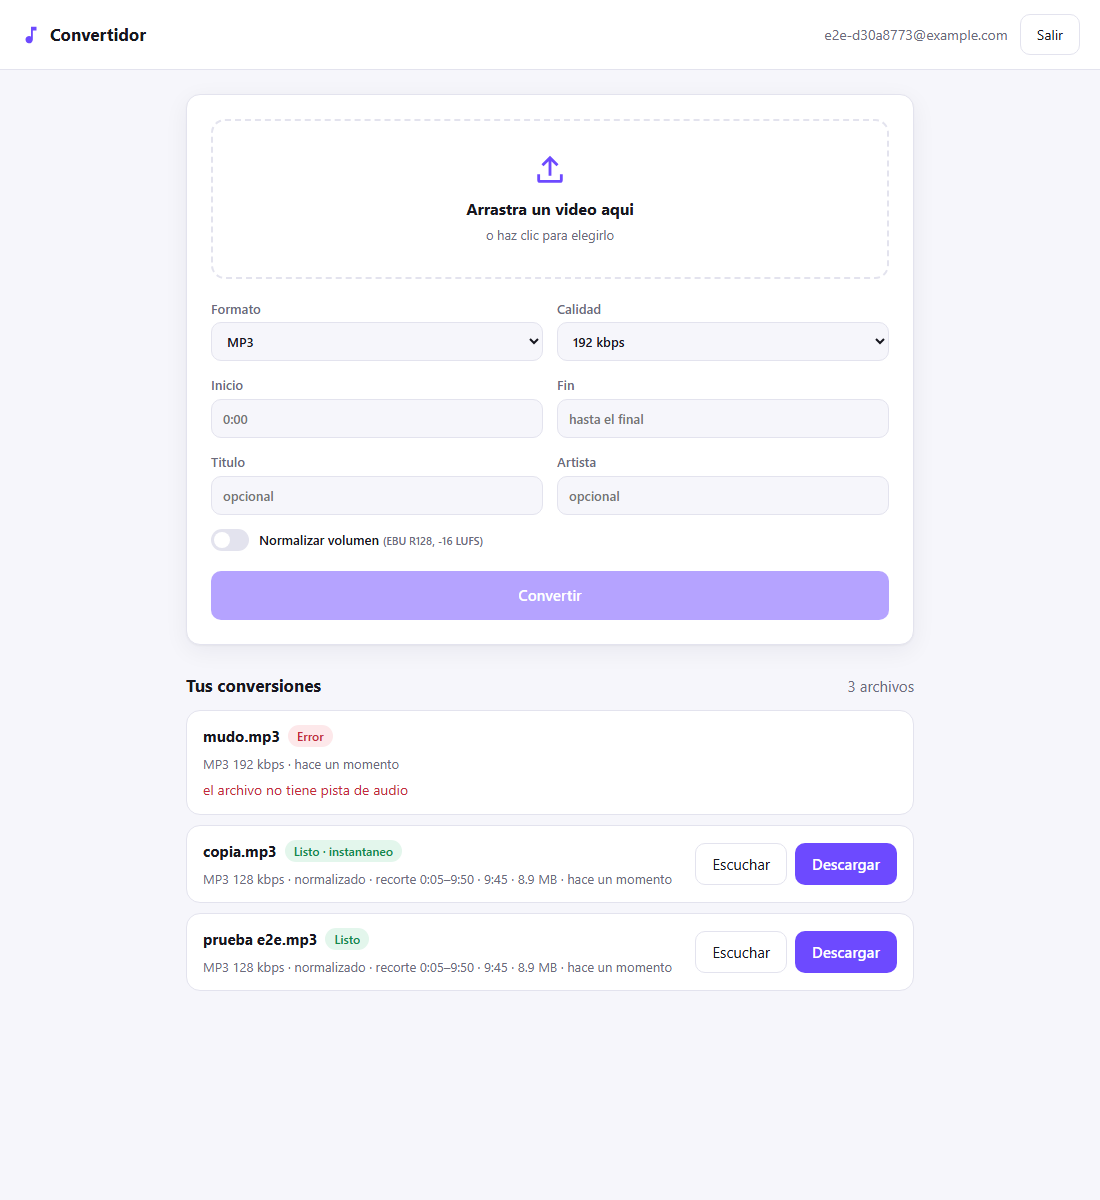
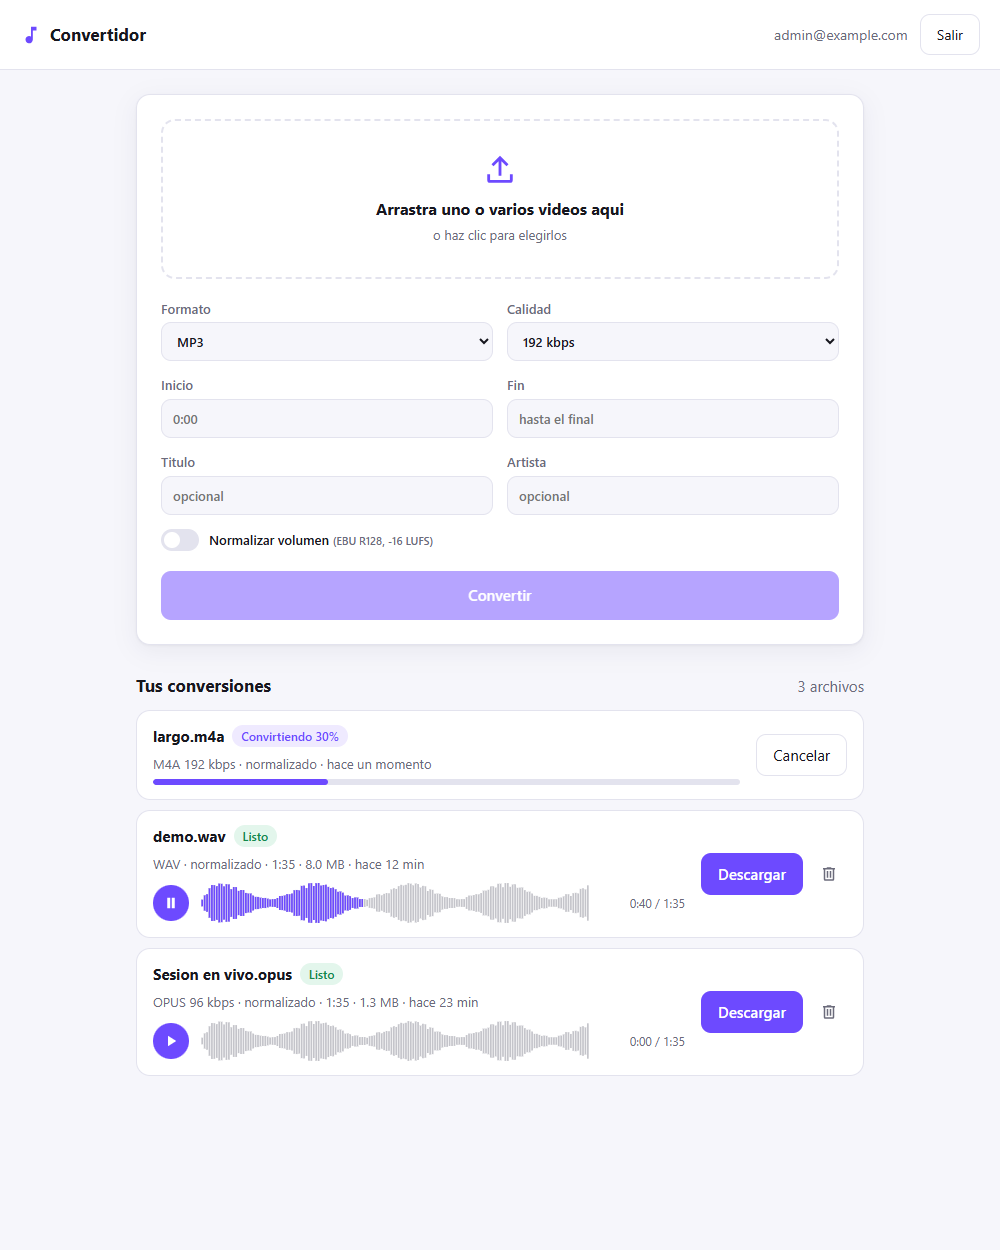
docs: README y manifiestos k8s para las funciones nuevas
- README: forma de onda, cancelacion, borrado, subida multiple, limites,
  monitoreo (tabla de metricas) y capturas nuevas
- k8s: anotaciones prometheus.io en gateway y converter, puerto de
  metricas y MAX_ACTIVE_JOBS
- e2e: limite de 5 conversiones activas (la sexta -> 429)

diff --git a/scripts/e2e.py b/scripts/e2e.py
@@ -225,6 +225,18 @@ def main():
     status, audio, _ = request("GET", f"/api/jobs/{cached['id']}/download", token=token)
     check(status == 200 and audio[:3] == b"ID3", "la copia de cache sigue descargable")
 
+    step("Limite de conversiones activas por usuario")
+    batch = signup(f"lote-{run_id}@example.com")
+    statuses, created = [], []
+    for bitrate in ("64", "96", "128", "160", "192", "256"):  # opciones distintas: sin cache
+        status, body = upload(batch, video, "lote.mkv", bitrate=bitrate, normalize="1")
+        statuses.append(status)
+        if status == 202:
+            created.append(body["id"])
+    check(statuses == [202] * 5 + [429], f"5 aceptadas y la sexta rechazada {statuses}")
+    for job_id in created:
+        request("POST", f"/api/jobs/{job_id}/cancel", token=batch)
+
     step("Video sin audio -> error permanente sin reintentos")
     status, bad = upload(token, mute, "mudo.mkv")
     check(status == 202, "encolado")

diff --git a/README.md b/README.md
@@ -1,6 +1,6 @@
 # Convertidor de video a audio — microservicios en Python
 
-Sube un video y recibe el audio en MP3, M4A, OGG, Opus, FLAC o WAV. Puedes recortarlo, normalizar el volumen y ponerle título y artista. El progreso de la conversión se ve **en vivo** en el navegador, y si subes un archivo que ya se convirtió con las mismas opciones, el resultado sale **al instante** desde la caché.
+Sube uno o varios videos y recibe el audio en MP3, M4A, OGG, Opus, FLAC o WAV. Puedes recortarlo, normalizar el volumen y ponerle título y artista. El progreso de la conversión se ve **en vivo** en el navegador, puedes **cancelarla** a mitad de camino, escuchar el resultado sobre su **forma de onda** y, si subes un archivo que ya se convirtió con las mismas opciones, el resultado sale **al instante** desde la caché.
 
 ![Interfaz web](docs/screenshot.png)
 
@@ -8,12 +8,15 @@ Sube un video y recibe el audio en MP3, M4A, OGG, Opus, FLAC o WAV. Puedes recor
 
 | | |
 |---|---|
-| **Progreso en tiempo real** | El converter lee la salida `-progress` de ffmpeg, guarda el porcentaje en MongoDB y el gateway lo transmite por Server-Sent Events. Funciona con varias réplicas del gateway porque el estado vive en Mongo, no en memoria. |
-| **Caché por contenido** | La clave es `sha256(archivo + opciones)`. Mismo video y mismas opciones: no se encola nada, se reutiliza el audio existente. |
+| **Progreso en tiempo real** | El converter lee la salida `-progress` de ffmpeg, guarda el porcentaje en MongoDB y el gateway lo transmite por Server-Sent Events. Funciona con varias réplicas del gateway porque el estado vive en Mongo, no en memoria. Incluso para grabaciones `.webm` del navegador, que no traen duración: se mide recorriendo el audio sin decodificarlo. |
+| **Cancelación real** | Cancelar un trabajo en curso mata ffmpeg. El cierre es atómico: si la cancelación llega mientras se guarda el resultado, ese audio se descarta. |
+| **Forma de onda** | El converter calcula 160 picos del audio en streaming; la UI los dibuja como reproductor: clic para saltar, flechas para avanzar. |
+| **Caché por contenido** | La clave es `sha256(archivo + opciones)`. Mismo video y mismas opciones: no se encola nada, se reutiliza el audio existente. Borrar un trabajo no rompe las copias de caché de otros usuarios: el audio solo se elimina cuando nadie más lo usa. |
 | **Reintentos con espera y dead-letter queue** | Un fallo transitorio va a `video.retry`, una cola con TTL que devuelve el mensaje a `video` a los 5 s. Tras 3 intentos va a `video.dlq`. Los errores permanentes (archivo sin audio, formato inválido) no se reintentan. |
 | **Audio de calidad** | Normalización de sonoridad EBU R128 (−16 LUFS, el estándar de las plataformas de streaming), recorte con búsqueda rápida, etiquetas ID3. |
 | **Sin bloqueos de RabbitMQ** | La conversión corre en un hilo aparte para que pika siga respondiendo heartbeats; los videos largos no tumban la conexión. |
-| **Seguridad** | JWT con expiración, contraseñas con scrypt, login en tiempo constante (no se pueden enumerar usuarios), trabajos privados por usuario, contenedores sin root. |
+| **Seguridad y límites** | JWT con expiración, contraseñas con scrypt, login en tiempo constante (no se pueden enumerar usuarios), trabajos privados por usuario, máximo de conversiones activas por usuario (429), contenedores sin root. |
+| **Observabilidad** | Métricas Prometheus en gateway, converter y RabbitMQ, con un dashboard de Grafana listo para usar. |
 
 ## Arquitectura
 
@@ -56,6 +59,29 @@ docker compose up -d --build
 | http://localhost:8025 | Mailpit: aquí llegan los emails de notificación |
 | http://localhost:15672 | Panel de RabbitMQ (`guest` / `guest`) |
 
+### Con monitoreo
+
+```bash
+docker compose --profile monitoring up -d --build
+```
+
+Agrega Prometheus (http://localhost:9090) y Grafana (http://localhost:3000, sin login) con el dashboard **Convertidor** ya cargado:
+
+![Dashboard de Grafana](docs/grafana.png)
+
+| Métrica | Servicio | Qué mide |
+|---|---|---|
+| `converter_jobs_total{result}` | converter | Trabajos por resultado: `done`, `failed`, `canceled`, `retry` |
+| `converter_job_duration_seconds` | converter | Histograma de duración por intento |
+| `converter_jobs_in_progress` | converter | Conversiones corriendo ahora |
+| `converter_audio_seconds_total` | converter | Segundos de audio producidos |
+| `gateway_jobs_created_total{format,cached}` | gateway | Trabajos creados y aciertos de caché |
+| `gateway_jobs_rejected_total{reason}` | gateway | Rechazos por límite o cola caída |
+| `gateway_http_requests_total` / `_duration_seconds` | gateway | Tráfico y latencia por ruta (plantilla, no id: cardinalidad acotada) |
+| `rabbitmq_queue_messages_ready{queue}` | RabbitMQ | Mensajes esperando en `video`, `video.retry`, `video.dlq`, `mp3` |
+
+El gateway corre varios workers de gunicorn; las métricas usan el modo multiproceso de `prometheus_client` para que `/metrics` sume todos los procesos.
+
 Hay un usuario admin creado de fábrica (`admin@example.com` / `admin12345`), o crea tu cuenta desde la UI.
 
 ### Prueba de punta a punta
@@ -64,7 +90,7 @@ Hay un usuario admin creado de fábrica (`admin@example.com` / `admin12345`), o 
 python scripts/e2e.py
 ```
 
-Genera un video de 10 minutos con el ffmpeg del contenedor y comprueba el flujo completo: registro, subida con recorte y normalización, progreso intermedio por SSE, descarga con etiquetas ID3, caché instantánea, privacidad entre usuarios, error permanente sin reintentos y llegada del email.
+Genera un video de 10 minutos con el ffmpeg del contenedor y comprueba el flujo completo: registro, subida con recorte y normalización, progreso intermedio por SSE, forma de onda, descarga con etiquetas ID3, caché instantánea, privacidad entre usuarios, cancelación en curso, borrado sin romper la caché compartida, límite de conversiones activas, error permanente sin reintentos y llegada del email.
 
 ## API
 
@@ -80,6 +106,11 @@ Todas las rutas `/api/jobs*` requieren `Authorization: Bearer <token>`.
 | `GET` | `/api/jobs/<id>` | Estado de un trabajo |
 | `GET` | `/api/jobs/<id>/events` | Stream SSE con el progreso hasta que termina |
 | `GET` | `/api/jobs/<id>/download` | Descarga el audio |
+| `POST` | `/api/jobs/<id>/cancel` | 200 si estaba en cola, 202 si se está deteniendo ffmpeg, 409 si ya terminó |
+| `DELETE` | `/api/jobs/<id>` | 204. Los trabajos activos hay que cancelarlos antes (409) |
+| `GET` | `/metrics` | Métricas Prometheus |
+
+Si ya tienes `MAX_ACTIVE_JOBS` conversiones en cola o en proceso, `POST /api/jobs` responde **429** con `Retry-After`. Los resultados de caché no cuentan para el límite.
 
 Opciones de conversión (campos del formulario, todos opcionales):
 
@@ -150,6 +181,8 @@ Antes de usarlo en serio cambia los valores de ejemplo de los `secret.yaml` (sob
 | `MONGO_URI` | gateway, converter | `mongodb://localhost:27017` |
 | `RABBITMQ_HOST` | gateway, converter, notification | `localhost` |
 | `MAX_UPLOAD_MB` | gateway | `500` |
+| `MAX_ACTIVE_JOBS` | gateway | `5` |
+| `METRICS_PORT` | converter | `9100` |
 | `VIDEO_QUEUE`, `MP3_QUEUE` | gateway, converter, notification | `video`, `mp3` |
 | `MAX_ATTEMPTS` | converter, notification | `3`, `5` |
 | `RETRY_DELAY_MS` | converter | `5000` |
